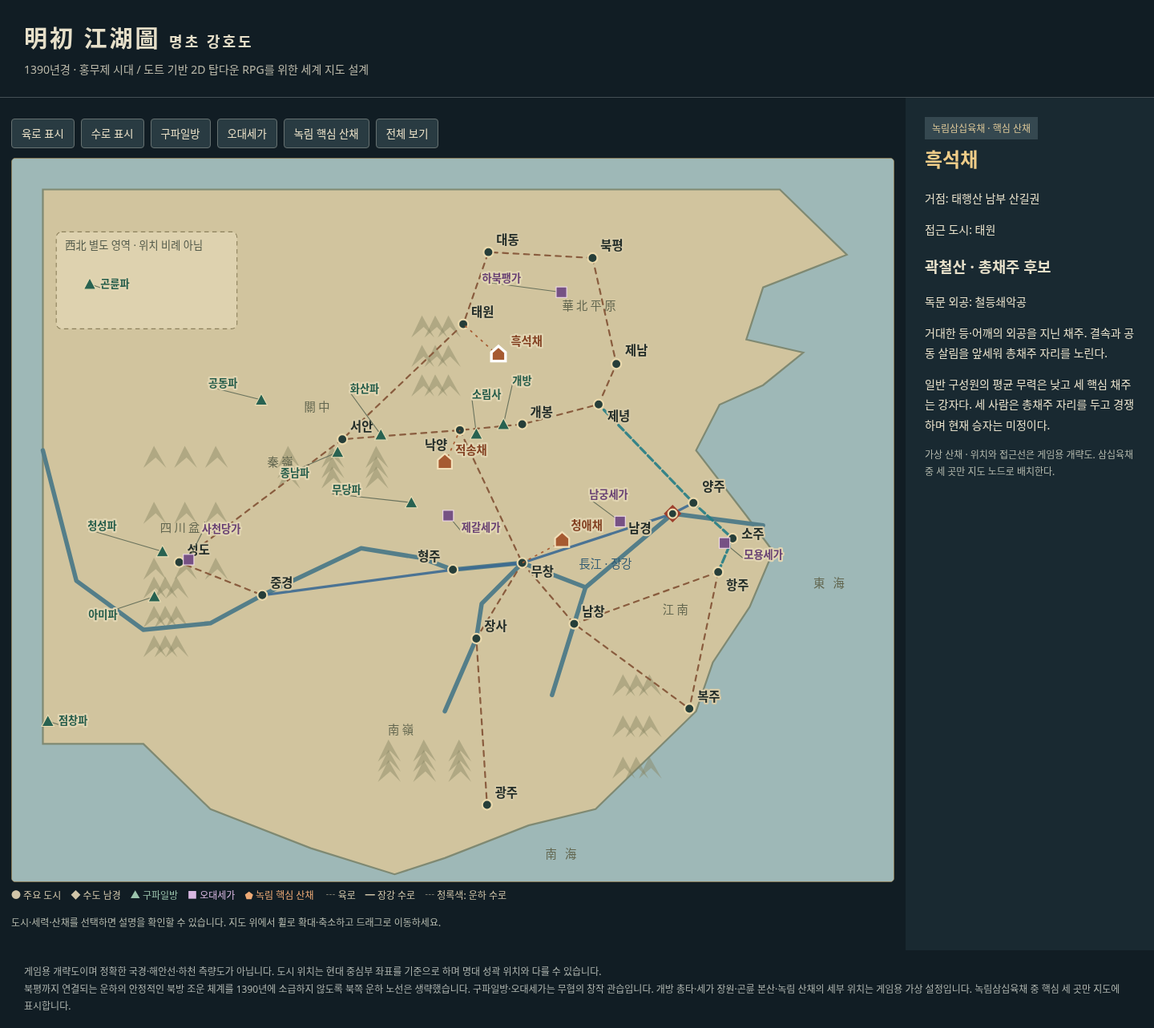
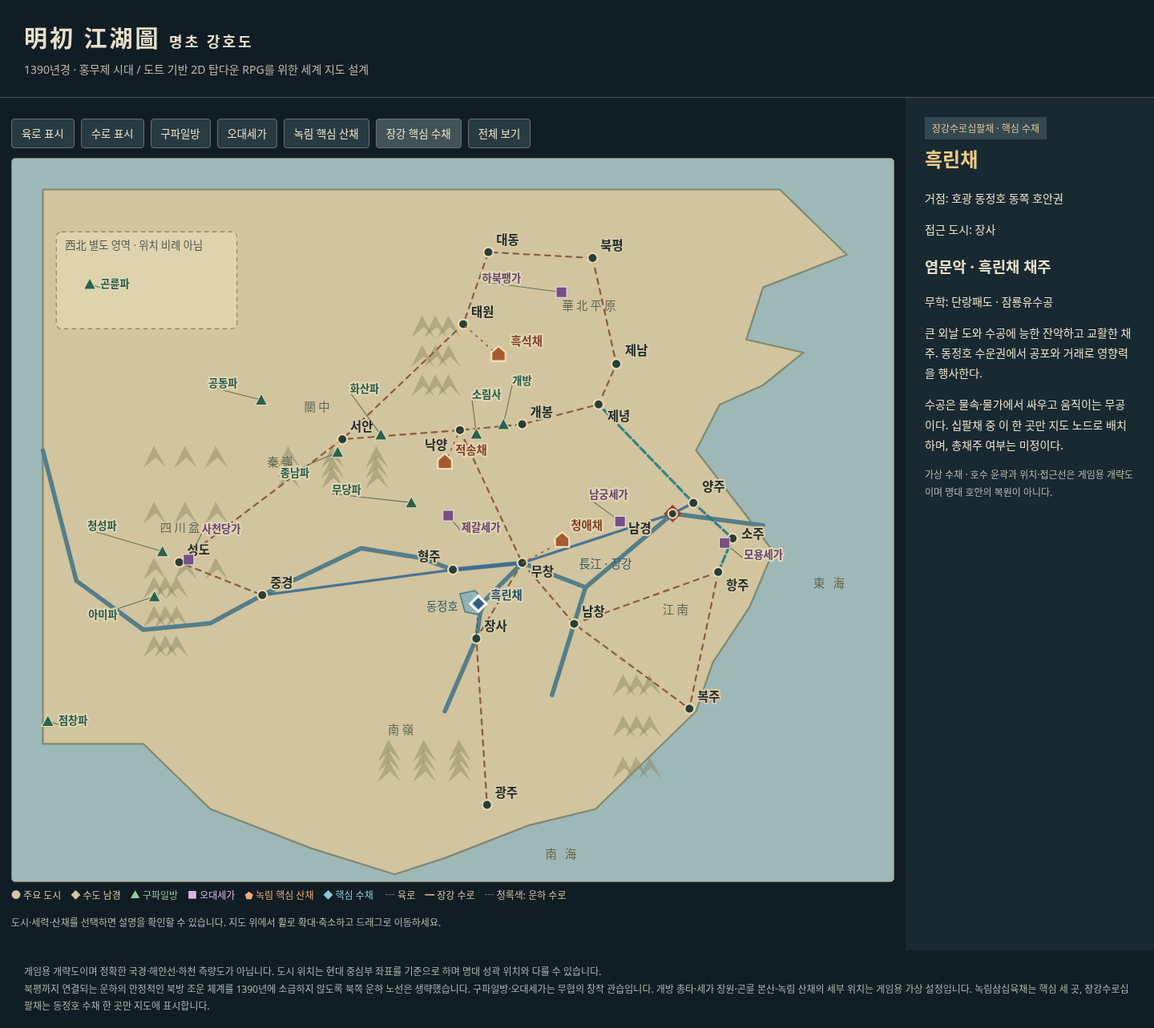
Add Dongting water camp and its cruel saber-wielding chief

diff --git a/world-map/index.html b/world-map/index.html
@@ -1,9 +1,9 @@
 <!doctype html><html lang="ko"><meta charset="utf-8"><meta name="viewport" content="width=device-width,initial-scale=1"><title>명초 강호도 · 세계 지도</title>
 <style>
-*{box-sizing:border-box}body{margin:0;background:#111d24;color:#e6dfc9;font-family:system-ui,'Noto Sans KR',sans-serif}header{padding:25px 30px 16px;border-bottom:1px solid #455055}h1{margin:0;font-size:29px;letter-spacing:3px}header p{color:#b9b7a8;margin:9px 0;font-size:14px}.app{display:grid;grid-template-columns:minmax(0,1fr) 310px;min-height:76vh}.canvas{position:relative;padding:14px}svg{width:100%;height:auto;background:#c7bb94;border:1px solid #877b59;border-radius:5px}aside{padding:24px;background:#192931}h2{color:#efcc88;margin-top:6px}.badge{display:inline-block;background:#354850;color:#dcc798;padding:5px 9px;font-size:12px}aside p{font-size:14px;line-height:1.8}button{background:#293b42;border:1px solid #667171;color:#e8dfc6;border-radius:4px;padding:8px 12px;cursor:pointer}button:hover{background:#425357}nav{display:flex;gap:8px;flex-wrap:wrap;padding:12px 0}footer{padding:16px 30px;color:#aeb4ae;font-size:12px;line-height:1.8}.city{cursor:pointer;outline:none}.city:hover circle,.city:focus circle{stroke:#fff;stroke-width:4}.city text{paint-order:stroke;stroke:#d5c9a6;stroke-width:4px;stroke-linejoin:round;fill:#222c28;font-weight:700;font-size:14px}.city.selected circle{fill:#c14f32;stroke:#fff;stroke-width:3}.camp{cursor:pointer;outline:none}.camp text{font-size:13px;font-weight:700;fill:#823f20;paint-order:stroke;stroke:#e1d5b2;stroke-width:4px;stroke-linejoin:round}.camp:hover .marker,.camp:focus .marker,.camp.selected .marker{stroke:#fff;stroke-width:3}.faction{cursor:pointer;outline:none}.faction text{font-size:12px;font-weight:700;paint-order:stroke;stroke:#e1d5b2;stroke-width:4px;stroke-linejoin:round}.faction:focus .marker,.faction:hover .marker,.faction.selected .marker{stroke:#fff;stroke-width:3}.faction line{stroke:#68715c;stroke-width:1;pointer-events:none}.mountain{fill:#8a8965;opacity:.47}.river{fill:none;stroke:#547e89;stroke-width:5;stroke-linecap:round;stroke-linejoin:round}.landlabel{font-size:13px;fill:#62664f;letter-spacing:3px}.waterlabel{font-size:13px;fill:#345c72} .route{fill:none;stroke-linejoin:round;stroke-linecap:round}.legend{font-size:12px;line-height:2;color:#d0c5a9}.small{font-size:12px;color:#b4b9ad}@media(max-width:800px){.app{grid-template-columns:1fr}aside{min-height:250px}header{padding:20px}h1{font-size:24px}}
-</style><header><h1>明初 江湖圖 <span style="font-size:18px">명초 강호도</span></h1><p>1390년경 · 홍무제 시대 / 도트 기반 2D 탑다운 RPG를 위한 세계 지도 설계</p></header><main class="app"><section class="canvas"><nav><button id="roads" aria-pressed="true">육로 표시</button><button id="water" aria-pressed="true">수로 표시</button><button id="sects" aria-pressed="true">구파일방</button><button id="clans" aria-pressed="true">오대세가</button><button id="camps" aria-pressed="true">녹림 핵심 산채</button><button id="reset">전체 보기</button></nav><svg id="map" viewBox="0 0 1000 820" role="img" aria-label="명나라 초기 주요 도시 20곳, 정파 세력 15곳과 녹림 핵심 산채 3곳의 지도"></svg><div class="legend">● 주요 도시　◆ 수도 남경　<span style="color:#9bc4ad">▲ 구파일방</span>　<span style="color:#d8b7e1">■ 오대세가</span>　<span style="color:#edaa76">⬟ 녹림 핵심 산채</span>　 ┄ 육로　━ 장강 수로　┄ 청록색: 운하 수로</div><p class="small">도시·세력·산채를 선택하면 설명을 확인할 수 있습니다. 지도 위에서 휠로 확대·축소하고 드래그로 이동하세요.</p></section><aside id="details" aria-live="polite"></aside></main><footer>게임용 개략도이며 정확한 국경·해안선·하천 측량도가 아닙니다. 도시 위치는 현대 중심부 좌표를 기준으로 하며 명대 성곽 위치와 다를 수 있습니다.<br>북평까지 연결되는 운하의 안정적인 북방 조운 체계를 1390년에 소급하지 않도록 북쪽 운하 노선은 생략했습니다. 구파일방·오대세가는 무협의 창작 관습입니다. 개방 총타·세가 장원·곤륜 본산·녹림 산채의 세부 위치는 게임용 가상 설정입니다. 녹림삼십육채 중 핵심 세 곳만 지도에 표시합니다.</footer>
+*{box-sizing:border-box}body{margin:0;background:#111d24;color:#e6dfc9;font-family:system-ui,'Noto Sans KR',sans-serif}header{padding:25px 30px 16px;border-bottom:1px solid #455055}h1{margin:0;font-size:29px;letter-spacing:3px}header p{color:#b9b7a8;margin:9px 0;font-size:14px}.app{display:grid;grid-template-columns:minmax(0,1fr) 310px;min-height:76vh}.canvas{position:relative;padding:14px}svg{width:100%;height:auto;background:#c7bb94;border:1px solid #877b59;border-radius:5px}aside{padding:24px;background:#192931}h2{color:#efcc88;margin-top:6px}.badge{display:inline-block;background:#354850;color:#dcc798;padding:5px 9px;font-size:12px}aside p{font-size:14px;line-height:1.8}button{background:#293b42;border:1px solid #667171;color:#e8dfc6;border-radius:4px;padding:8px 12px;cursor:pointer}button:hover{background:#425357}nav{display:flex;gap:8px;flex-wrap:wrap;padding:12px 0}footer{padding:16px 30px;color:#aeb4ae;font-size:12px;line-height:1.8}.city{cursor:pointer;outline:none}.city:hover circle,.city:focus circle{stroke:#fff;stroke-width:4}.city text{paint-order:stroke;stroke:#d5c9a6;stroke-width:4px;stroke-linejoin:round;fill:#222c28;font-weight:700;font-size:14px}.city.selected circle{fill:#c14f32;stroke:#fff;stroke-width:3}.watercamp{cursor:pointer;outline:none}.watercamp text{font-size:13px;font-weight:700;fill:#224e68;paint-order:stroke;stroke:#e1d5b2;stroke-width:4px;stroke-linejoin:round}.watercamp:hover .marker,.watercamp:focus .marker,.watercamp.selected .marker{stroke:#fff;stroke-width:3}.camp{cursor:pointer;outline:none}.camp text{font-size:13px;font-weight:700;fill:#823f20;paint-order:stroke;stroke:#e1d5b2;stroke-width:4px;stroke-linejoin:round}.camp:hover .marker,.camp:focus .marker,.camp.selected .marker{stroke:#fff;stroke-width:3}.faction{cursor:pointer;outline:none}.faction text{font-size:12px;font-weight:700;paint-order:stroke;stroke:#e1d5b2;stroke-width:4px;stroke-linejoin:round}.faction:focus .marker,.faction:hover .marker,.faction.selected .marker{stroke:#fff;stroke-width:3}.faction line{stroke:#68715c;stroke-width:1;pointer-events:none}.mountain{fill:#8a8965;opacity:.47}.river{fill:none;stroke:#547e89;stroke-width:5;stroke-linecap:round;stroke-linejoin:round}.landlabel{font-size:13px;fill:#62664f;letter-spacing:3px}.waterlabel{font-size:13px;fill:#345c72} .route{fill:none;stroke-linejoin:round;stroke-linecap:round}.legend{font-size:12px;line-height:2;color:#d0c5a9}.small{font-size:12px;color:#b4b9ad}@media(max-width:800px){.app{grid-template-columns:1fr}aside{min-height:250px}header{padding:20px}h1{font-size:24px}}
+</style><header><h1>明初 江湖圖 <span style="font-size:18px">명초 강호도</span></h1><p>1390년경 · 홍무제 시대 / 도트 기반 2D 탑다운 RPG를 위한 세계 지도 설계</p></header><main class="app"><section class="canvas"><nav><button id="roads" aria-pressed="true">육로 표시</button><button id="water" aria-pressed="true">수로 표시</button><button id="sects" aria-pressed="true">구파일방</button><button id="clans" aria-pressed="true">오대세가</button><button id="camps" aria-pressed="true">녹림 핵심 산채</button><button id="watercamps" aria-pressed="true">장강 핵심 수채</button><button id="reset">전체 보기</button></nav><svg id="map" viewBox="0 0 1000 820" role="img" aria-label="명나라 초기 주요 도시 20곳, 정파 세력 15곳과 녹림 핵심 산채 3곳과 동정호 수채 1곳의 지도"></svg><div class="legend">● 주요 도시　◆ 수도 남경　<span style="color:#9bc4ad">▲ 구파일방</span>　<span style="color:#d8b7e1">■ 오대세가</span>　<span style="color:#edaa76">⬟ 녹림 핵심 산채</span>　<span style="color:#8fc9d9">◆ 핵심 수채</span>　 ┄ 육로　━ 장강 수로　┄ 청록색: 운하 수로</div><p class="small">도시·세력·산채를 선택하면 설명을 확인할 수 있습니다. 지도 위에서 휠로 확대·축소하고 드래그로 이동하세요.</p></section><aside id="details" aria-live="polite"></aside></main><footer>게임용 개략도이며 정확한 국경·해안선·하천 측량도가 아닙니다. 도시 위치는 현대 중심부 좌표를 기준으로 하며 명대 성곽 위치와 다를 수 있습니다.<br>북평까지 연결되는 운하의 안정적인 북방 조운 체계를 1390년에 소급하지 않도록 북쪽 운하 노선은 생략했습니다. 구파일방·오대세가는 무협의 창작 관습입니다. 개방 총타·세가 장원·곤륜 본산·녹림 산채의 세부 위치는 게임용 가상 설정입니다. 녹림삼십육채는 핵심 세 곳, 장강수로십팔채는 동정호 수채 한 곳만 지도에 표시합니다.</footer>
 <script>
-const DATA={"period": "홍무 23년 전후 · 1390년경", "cities": [{"id": "nanjing", "name": "남경", "historic": "應天府", "lon": 118.8, "lat": 32.06, "region": "수도", "history": "명 조정의 수도. 궁성과 관청, 군수·수운의 중심.", "game": "황실·관료·상인·강호인이 교차하는 중앙 거점."}, {"id": "beiping", "name": "북평", "historic": "北平府", "lon": 116.41, "lat": 39.9, "region": "북방", "history": "1390년에는 북평. 연왕 주체의 번왕 거점이며, 1403년 북경으로 개칭되고 1421년 수도가 된다.", "game": "북방 군사 세력과 변경으로 통하는 관문."}, {"id": "xian", "name": "서안", "historic": "西安府", "lon": 108.94, "lat": 34.34, "region": "서북", "history": "관중의 중심이자 진왕의 번왕 거점.", "game": "관중 평야와 서북 지역을 잇는 무림 거점."}, {"id": "kaifeng", "name": "개봉", "historic": "開封府", "lon": 114.31, "lat": 34.8, "region": "중원", "history": "하남의 중심이며 주왕의 번왕 거점. 송대 수도였지만 명의 수도는 아니다.", "game": "하남의 문파와 상단이 모이는 중원 거점."}, {"id": "luoyang", "name": "낙양", "historic": "河南府", "lon": 112.45, "lat": 34.62, "region": "중원", "history": "하남부의 중심. 숭산·용문과 인접한 내륙 도시.", "game": "숭산 산길과 고도 탐험의 출입구."}, {"id": "jinan", "name": "제남", "historic": "濟南府", "lon": 117.12, "lat": 36.65, "region": "산동", "history": "산동 지역의 행정 중심. 대운하 본류에 직접 놓인 도시는 아니다.", "game": "태산과 산동 내륙을 연결하는 거점."}, {"id": "jining", "name": "제녕", "historic": "濟寧州", "lon": 116.59, "lat": 35.41, "region": "운하", "history": "명초 제녕주. 대운하 수운망의 중요한 거점.", "game": "운하 나루·창고·호송 의뢰의 무대."}, {"id": "yangzhou", "name": "양주", "historic": "揚州府", "lon": 119.42, "lat": 32.39, "region": "운하", "history": "장강 북안과 대운하를 연결하는 수운·염업 거점.", "game": "나루와 염상 세력이 얽히는 상업 도시."}, {"id": "suzhou", "name": "소주", "historic": "蘇州府", "lon": 120.59, "lat": 31.3, "region": "강남", "history": "강남의 농업·수공업·직물 생산 중심.", "game": "수로 마을과 공방, 부유한 상단의 도시."}, {"id": "hangzhou", "name": "항주", "historic": "杭州府", "lon": 120.16, "lat": 30.27, "region": "강남", "history": "절강의 중심이며 대운하 남단의 주요 도시.", "game": "서호와 강남 무림을 탐험하는 남쪽 거점."}, {"id": "wuchang", "name": "무창", "historic": "武昌府", "lon": 114.31, "lat": 30.55, "region": "장강", "history": "장강 중류의 주요 거점이자 초왕의 번왕 거점. 당시 현대 통합도시 명칭인 ‘무한’은 쓰지 않는다.", "game": "수로 세력과 내륙 문파가 교차하는 도시."}, {"id": "jingzhou", "name": "형주", "historic": "荊州府", "lon": 112.24, "lat": 30.34, "region": "장강", "history": "장강 중류의 군사·교통 거점.", "game": "강변 요새와 호송로의 거점."}, {"id": "chengdu", "name": "성도", "historic": "成都府", "lon": 104.07, "lat": 30.57, "region": "서남", "history": "사천 분지의 중심이며 촉왕의 번왕 거점.", "game": "분지 안의 도시와 험준한 산길을 탐험."}, {"id": "chongqing", "name": "중경", "historic": "重慶府", "lon": 106.55, "lat": 29.56, "region": "서남", "history": "장강·가릉강 합류부의 도시. 사천과 장강 중류 사이의 수로 거점.", "game": "협곡과 강변 취락으로 이어지는 출발점."}, {"id": "guangzhou", "name": "광주", "historic": "廣州府", "lon": 113.26, "lat": 23.13, "region": "남부", "history": "광동의 중심. 명초 해금 정책 아래 해상 교역을 자유무역으로 묘사하지 않도록 주의.", "game": "남방 상단과 해안 지역의 거점."}, {"id": "fuzhou", "name": "복주", "historic": "福州府", "lon": 119.3, "lat": 26.08, "region": "동남", "history": "복건의 행정 중심. 민강 하구권에 위치.", "game": "산지와 해안 사이의 동남부 도시."}, {"id": "nanchang", "name": "남창", "historic": "南昌府", "lon": 115.86, "lat": 28.68, "region": "강서", "history": "강서의 중심. 감강과 파양호를 통해 장강 수운권에 연결.", "game": "호수와 강을 따라 이동하는 내륙 거점."}, {"id": "changsha", "name": "장사", "historic": "長沙府", "lon": 112.94, "lat": 28.23, "region": "호남", "history": "상강 유역의 주요 도시. 동정호를 통해 장강과 연결.", "game": "남악 형산 방면의 탐험 거점."}, {"id": "datong", "name": "대동", "historic": "大同府", "lon": 113.3, "lat": 40.08, "region": "북방", "history": "북방 방어의 주요 군사 거점.", "game": "변경의 군사 긴장과 호송로를 표현."}, {"id": "taiyuan", "name": "태원", "historic": "太原府", "lon": 112.55, "lat": 37.87, "region": "북방", "history": "산서의 중심이자 진왕(晉王)의 번왕 거점. 서안의 진왕(秦王)과 구별.", "game": "산서 산길과 북방 내륙을 연결."}], "roads": [["beiping", "datong", "taiyuan", "xian"], ["beiping", "jinan", "jining", "kaifeng", "luoyang", "xian"], ["luoyang", "wuchang"], ["xian", "chengdu", "chongqing"], ["wuchang", "changsha", "guangzhou"], ["wuchang", "nanchang", "fuzhou"], ["hangzhou", "fuzhou"], ["nanchang", "hangzhou"]], "waterRoutes": [["chongqing", "jingzhou", "wuchang", "nanjing", "yangzhou"], ["hangzhou", "suzhou", "yangzhou", "jining"]], "note": "지형·하천·노선은 게임용 개략도. 행정 경계 및 정밀 역참 경로를 나타내지 않음.", "factions": [{"id": "shaolin", "name": "소림사", "historic": "少林寺", "kind": "구파일방", "lon": 112.94, "lat": 34.51, "base": "하남 · 숭산 소실산", "gateway": "낙양", "basis": "숭산 소실산의 소림사를 본산으로 삼는 무협 관습. 실제 사찰과 무협 조직 설정은 구별한다.", "labelOffset": [-5, -40], "locationType": "실제 산악·사찰 기반의 무협 본산"}, {"id": "wudang", "name": "무당파", "historic": "武當派", "kind": "구파일방", "lon": 111.0, "lat": 32.4, "base": "호광 · 무당산", "gateway": "무창 / 형주", "basis": "무당산을 본산으로 설정. 영락제 때의 대규모 조영을 1390년에 완성된 모습으로 소급하지 않는다.", "labelOffset": [-90, -10], "locationType": "실제 산악·사찰 기반의 무협 본산"}, {"id": "huashan", "name": "화산파", "historic": "華山派", "kind": "구파일방", "lon": 110.09, "lat": 34.48, "base": "섬서 · 화산", "gateway": "서안", "basis": "서악 화산을 본산으로 삼는 무협 관습.", "labelOffset": [-35, -48], "locationType": "실제 산악·사찰 기반의 무협 본산"}, {"id": "emei", "name": "아미파", "historic": "峨嵋派", "kind": "구파일방", "lon": 103.33, "lat": 29.52, "base": "사천 · 아미산", "gateway": "성도", "basis": "아미산을 본산으로 설정. 무협에서의 구성원·계율은 실제 불교 사찰의 역사와 별도다.", "labelOffset": [-75, 25], "locationType": "실제 산악·사찰 기반의 무협 본산"}, {"id": "qingcheng", "name": "청성파", "historic": "靑城派", "kind": "구파일방", "lon": 103.57, "lat": 30.9, "base": "사천 · 청성산", "gateway": "성도", "basis": "성도 서북쪽 청성산을 본산으로 설정.", "labelOffset": [-85, -25], "locationType": "실제 산악·사찰 기반의 무협 본산"}, {"id": "kongtong", "name": "공동파", "historic": "崆峒派", "kind": "구파일방", "lon": 106.52, "lat": 35.55, "base": "감숙 · 평량 공동산", "gateway": "서안", "basis": "평량 부근 공동산을 본산으로 삼는 무협 관습.", "labelOffset": [-60, -15], "locationType": "실제 산악·사찰 기반의 무협 본산"}, {"id": "kunlun", "name": "곤륜파", "historic": "崑崙派", "kind": "구파일방", "lon": 94.8, "lat": 36.1, "base": "서역 · 곤륜산맥 동부권", "gateway": "서안 → 서북 확장 지역", "basis": "곤륜산맥은 광범위하여 단일한 정설 본산 좌표가 없다. 동부권에 가상 본산을 두며 지도에서는 서북 별도 영역에 표시한다.", "labelOffset": [12, 4], "locationType": "게임용 가상 거점", "mapLon": 101.4, "mapLat": 39.1}, {"id": "zhongnan", "name": "종남파", "historic": "終南派", "kind": "구파일방", "lon": 108.8, "lat": 33.95, "base": "섬서 · 종남산", "gateway": "서안", "basis": "서안 남쪽 종남산을 본산으로 설정. 전진교와의 관계는 추후 창작 설정으로 결정한다.", "labelOffset": [-65, 28], "locationType": "실제 산악·사찰 기반의 무협 본산"}, {"id": "diancang", "name": "점창파", "historic": "點蒼派", "kind": "구파일방", "lon": 100.15, "lat": 25.7, "base": "운남 · 대리 점창산", "gateway": "성도 → 운남 확장 지역", "basis": "대리 서쪽 창산(점창산)을 본산으로 설정. 점창·종남 대신 해남 등을 넣는 작품도 있다.", "labelOffset": [12, 4], "locationType": "실제 산악·사찰 기반의 무협 본산"}, {"id": "beggars", "name": "개방", "historic": "丐幫", "kind": "구파일방", "lon": 113.75, "lat": 34.8, "base": "하남 · 개봉 외곽의 가상 총타", "gateway": "개봉", "basis": "개방은 전국적인 방회다. 총타 위치는 작품마다 달라 이번 게임에서는 개봉 외곽을 임시 총타로 지정한다.", "labelOffset": [10, -45], "locationType": "게임용 가상 거점"}, {"id": "namgung", "name": "남궁세가", "historic": "南宮世家", "kind": "오대세가", "lon": 117.23, "lat": 31.82, "base": "남직례 · 합비 일대", "gateway": "남경", "basis": "안휘권이라는 무협 관습을 채택하고 합비 부근에 가상 장원을 배치. 1390년에는 안휘성이 존재하지 않으므로 당시 지역은 남직례로 표기한다.", "labelOffset": [-35, -26], "locationType": "게임용 가상 거점"}, {"id": "murong", "name": "모용세가", "historic": "慕容世家", "kind": "오대세가", "lon": 120.35, "lat": 31.16, "base": "남직례 · 소주 태호권", "gateway": "소주", "basis": "소주·태호권을 채택하되 특정 작품의 장원·인물·서사는 사용하지 않는다.", "labelOffset": [22, 18], "locationType": "게임용 가상 거점"}, {"id": "tang", "name": "사천당가", "historic": "四川唐家", "kind": "오대세가", "lon": 104.35, "lat": 30.65, "base": "사천 · 성도 외곽", "gateway": "성도", "basis": "사천·성도권이라는 관습을 채택. 실제 장원의 위치가 아닌 게임용 가상 거점이다.", "labelOffset": [15, -30], "locationType": "게임용 가상 거점"}, {"id": "zhuge", "name": "제갈세가", "historic": "諸葛世家", "kind": "오대세가", "lon": 112.1, "lat": 32.0, "base": "호광 · 양양 일대", "gateway": "형주 / 무창", "basis": "호북·양양권을 채택. 제갈량 관련 지리적 연상을 바탕으로 한 무협 창작 관습이며 실제 명대 무림 가문의 사료가 아니다.", "labelOffset": [15, 18], "locationType": "게임용 가상 거점"}, {"id": "peng", "name": "하북팽가", "historic": "河北彭家", "kind": "오대세가", "lon": 115.48, "lat": 38.85, "base": "하북 · 보정 일대 (당시 북평 관할권)", "gateway": "북평", "basis": "사용자 지정에 따라 하북팽가를 채택. 하북 지역의 보정 일대에 가상 장원을 둔다. 현대 하북성의 행정구역을 1390년에 소급한 설정은 아니다.", "labelOffset": [-90, -12], "locationType": "게임용 가상 거점"}], "camps": [{"id": "heishi", "name": "흑석채", "lon": 113.6, "lat": 36.9, "region": "태행산 남부 산길권", "gateway": "태원", "gatewayId": "taiyuan", "leader": "곽철산 · 총채주 후보", "martialArt": "철등쇄악공", "description": "거대한 등·어깨의 외공을 지닌 채주. 결속과 공동 살림을 앞세워 총채주 자리를 노린다.", "labelOffset": [14, -12]}, {"id": "chisong", "name": "적송채", "lon": 112.0, "lat": 33.6, "region": "하남 복우산 산길권", "gateway": "낙양", "gatewayId": "luoyang", "leader": "연적하 · 총채주 후보", "martialArt": "적송철조공", "description": "손과 전완의 외공을 지닌 채주. 분배 규칙과 약속을 앞세워 총채주 자리를 노린다.", "labelOffset": [12, -10]}, {"id": "qingya", "name": "청애채", "lon": 115.5, "lat": 31.2, "region": "호광 대별산 산길권", "gateway": "무창", "gatewayId": "wuchang", "leader": "마운표 · 총채주 후보", "martialArt": "반석진각공", "description": "하체와 허리의 외공을 지닌 채주. 행동과 성과로 지지를 모아 총채주 자리를 노린다.", "labelOffset": [10, -14]}]};
+const DATA={"period": "홍무 23년 전후 · 1390년경", "cities": [{"id": "nanjing", "name": "남경", "historic": "應天府", "lon": 118.8, "lat": 32.06, "region": "수도", "history": "명 조정의 수도. 궁성과 관청, 군수·수운의 중심.", "game": "황실·관료·상인·강호인이 교차하는 중앙 거점."}, {"id": "beiping", "name": "북평", "historic": "北平府", "lon": 116.41, "lat": 39.9, "region": "북방", "history": "1390년에는 북평. 연왕 주체의 번왕 거점이며, 1403년 북경으로 개칭되고 1421년 수도가 된다.", "game": "북방 군사 세력과 변경으로 통하는 관문."}, {"id": "xian", "name": "서안", "historic": "西安府", "lon": 108.94, "lat": 34.34, "region": "서북", "history": "관중의 중심이자 진왕의 번왕 거점.", "game": "관중 평야와 서북 지역을 잇는 무림 거점."}, {"id": "kaifeng", "name": "개봉", "historic": "開封府", "lon": 114.31, "lat": 34.8, "region": "중원", "history": "하남의 중심이며 주왕의 번왕 거점. 송대 수도였지만 명의 수도는 아니다.", "game": "하남의 문파와 상단이 모이는 중원 거점."}, {"id": "luoyang", "name": "낙양", "historic": "河南府", "lon": 112.45, "lat": 34.62, "region": "중원", "history": "하남부의 중심. 숭산·용문과 인접한 내륙 도시.", "game": "숭산 산길과 고도 탐험의 출입구."}, {"id": "jinan", "name": "제남", "historic": "濟南府", "lon": 117.12, "lat": 36.65, "region": "산동", "history": "산동 지역의 행정 중심. 대운하 본류에 직접 놓인 도시는 아니다.", "game": "태산과 산동 내륙을 연결하는 거점."}, {"id": "jining", "name": "제녕", "historic": "濟寧州", "lon": 116.59, "lat": 35.41, "region": "운하", "history": "명초 제녕주. 대운하 수운망의 중요한 거점.", "game": "운하 나루·창고·호송 의뢰의 무대."}, {"id": "yangzhou", "name": "양주", "historic": "揚州府", "lon": 119.42, "lat": 32.39, "region": "운하", "history": "장강 북안과 대운하를 연결하는 수운·염업 거점.", "game": "나루와 염상 세력이 얽히는 상업 도시."}, {"id": "suzhou", "name": "소주", "historic": "蘇州府", "lon": 120.59, "lat": 31.3, "region": "강남", "history": "강남의 농업·수공업·직물 생산 중심.", "game": "수로 마을과 공방, 부유한 상단의 도시."}, {"id": "hangzhou", "name": "항주", "historic": "杭州府", "lon": 120.16, "lat": 30.27, "region": "강남", "history": "절강의 중심이며 대운하 남단의 주요 도시.", "game": "서호와 강남 무림을 탐험하는 남쪽 거점."}, {"id": "wuchang", "name": "무창", "historic": "武昌府", "lon": 114.31, "lat": 30.55, "region": "장강", "history": "장강 중류의 주요 거점이자 초왕의 번왕 거점. 당시 현대 통합도시 명칭인 ‘무한’은 쓰지 않는다.", "game": "수로 세력과 내륙 문파가 교차하는 도시."}, {"id": "jingzhou", "name": "형주", "historic": "荊州府", "lon": 112.24, "lat": 30.34, "region": "장강", "history": "장강 중류의 군사·교통 거점.", "game": "강변 요새와 호송로의 거점."}, {"id": "chengdu", "name": "성도", "historic": "成都府", "lon": 104.07, "lat": 30.57, "region": "서남", "history": "사천 분지의 중심이며 촉왕의 번왕 거점.", "game": "분지 안의 도시와 험준한 산길을 탐험."}, {"id": "chongqing", "name": "중경", "historic": "重慶府", "lon": 106.55, "lat": 29.56, "region": "서남", "history": "장강·가릉강 합류부의 도시. 사천과 장강 중류 사이의 수로 거점.", "game": "협곡과 강변 취락으로 이어지는 출발점."}, {"id": "guangzhou", "name": "광주", "historic": "廣州府", "lon": 113.26, "lat": 23.13, "region": "남부", "history": "광동의 중심. 명초 해금 정책 아래 해상 교역을 자유무역으로 묘사하지 않도록 주의.", "game": "남방 상단과 해안 지역의 거점."}, {"id": "fuzhou", "name": "복주", "historic": "福州府", "lon": 119.3, "lat": 26.08, "region": "동남", "history": "복건의 행정 중심. 민강 하구권에 위치.", "game": "산지와 해안 사이의 동남부 도시."}, {"id": "nanchang", "name": "남창", "historic": "南昌府", "lon": 115.86, "lat": 28.68, "region": "강서", "history": "강서의 중심. 감강과 파양호를 통해 장강 수운권에 연결.", "game": "호수와 강을 따라 이동하는 내륙 거점."}, {"id": "changsha", "name": "장사", "historic": "長沙府", "lon": 112.94, "lat": 28.23, "region": "호남", "history": "상강 유역의 주요 도시. 동정호를 통해 장강과 연결.", "game": "남악 형산 방면의 탐험 거점."}, {"id": "datong", "name": "대동", "historic": "大同府", "lon": 113.3, "lat": 40.08, "region": "북방", "history": "북방 방어의 주요 군사 거점.", "game": "변경의 군사 긴장과 호송로를 표현."}, {"id": "taiyuan", "name": "태원", "historic": "太原府", "lon": 112.55, "lat": 37.87, "region": "북방", "history": "산서의 중심이자 진왕(晉王)의 번왕 거점. 서안의 진왕(秦王)과 구별.", "game": "산서 산길과 북방 내륙을 연결."}], "roads": [["beiping", "datong", "taiyuan", "xian"], ["beiping", "jinan", "jining", "kaifeng", "luoyang", "xian"], ["luoyang", "wuchang"], ["xian", "chengdu", "chongqing"], ["wuchang", "changsha", "guangzhou"], ["wuchang", "nanchang", "fuzhou"], ["hangzhou", "fuzhou"], ["nanchang", "hangzhou"]], "waterRoutes": [["chongqing", "jingzhou", "wuchang", "nanjing", "yangzhou"], ["hangzhou", "suzhou", "yangzhou", "jining"]], "note": "지형·하천·노선은 게임용 개략도. 행정 경계 및 정밀 역참 경로를 나타내지 않음.", "factions": [{"id": "shaolin", "name": "소림사", "historic": "少林寺", "kind": "구파일방", "lon": 112.94, "lat": 34.51, "base": "하남 · 숭산 소실산", "gateway": "낙양", "basis": "숭산 소실산의 소림사를 본산으로 삼는 무협 관습. 실제 사찰과 무협 조직 설정은 구별한다.", "labelOffset": [-5, -40], "locationType": "실제 산악·사찰 기반의 무협 본산"}, {"id": "wudang", "name": "무당파", "historic": "武當派", "kind": "구파일방", "lon": 111.0, "lat": 32.4, "base": "호광 · 무당산", "gateway": "무창 / 형주", "basis": "무당산을 본산으로 설정. 영락제 때의 대규모 조영을 1390년에 완성된 모습으로 소급하지 않는다.", "labelOffset": [-90, -10], "locationType": "실제 산악·사찰 기반의 무협 본산"}, {"id": "huashan", "name": "화산파", "historic": "華山派", "kind": "구파일방", "lon": 110.09, "lat": 34.48, "base": "섬서 · 화산", "gateway": "서안", "basis": "서악 화산을 본산으로 삼는 무협 관습.", "labelOffset": [-35, -48], "locationType": "실제 산악·사찰 기반의 무협 본산"}, {"id": "emei", "name": "아미파", "historic": "峨嵋派", "kind": "구파일방", "lon": 103.33, "lat": 29.52, "base": "사천 · 아미산", "gateway": "성도", "basis": "아미산을 본산으로 설정. 무협에서의 구성원·계율은 실제 불교 사찰의 역사와 별도다.", "labelOffset": [-75, 25], "locationType": "실제 산악·사찰 기반의 무협 본산"}, {"id": "qingcheng", "name": "청성파", "historic": "靑城派", "kind": "구파일방", "lon": 103.57, "lat": 30.9, "base": "사천 · 청성산", "gateway": "성도", "basis": "성도 서북쪽 청성산을 본산으로 설정.", "labelOffset": [-85, -25], "locationType": "실제 산악·사찰 기반의 무협 본산"}, {"id": "kongtong", "name": "공동파", "historic": "崆峒派", "kind": "구파일방", "lon": 106.52, "lat": 35.55, "base": "감숙 · 평량 공동산", "gateway": "서안", "basis": "평량 부근 공동산을 본산으로 삼는 무협 관습.", "labelOffset": [-60, -15], "locationType": "실제 산악·사찰 기반의 무협 본산"}, {"id": "kunlun", "name": "곤륜파", "historic": "崑崙派", "kind": "구파일방", "lon": 94.8, "lat": 36.1, "base": "서역 · 곤륜산맥 동부권", "gateway": "서안 → 서북 확장 지역", "basis": "곤륜산맥은 광범위하여 단일한 정설 본산 좌표가 없다. 동부권에 가상 본산을 두며 지도에서는 서북 별도 영역에 표시한다.", "labelOffset": [12, 4], "locationType": "게임용 가상 거점", "mapLon": 101.4, "mapLat": 39.1}, {"id": "zhongnan", "name": "종남파", "historic": "終南派", "kind": "구파일방", "lon": 108.8, "lat": 33.95, "base": "섬서 · 종남산", "gateway": "서안", "basis": "서안 남쪽 종남산을 본산으로 설정. 전진교와의 관계는 추후 창작 설정으로 결정한다.", "labelOffset": [-65, 28], "locationType": "실제 산악·사찰 기반의 무협 본산"}, {"id": "diancang", "name": "점창파", "historic": "點蒼派", "kind": "구파일방", "lon": 100.15, "lat": 25.7, "base": "운남 · 대리 점창산", "gateway": "성도 → 운남 확장 지역", "basis": "대리 서쪽 창산(점창산)을 본산으로 설정. 점창·종남 대신 해남 등을 넣는 작품도 있다.", "labelOffset": [12, 4], "locationType": "실제 산악·사찰 기반의 무협 본산"}, {"id": "beggars", "name": "개방", "historic": "丐幫", "kind": "구파일방", "lon": 113.75, "lat": 34.8, "base": "하남 · 개봉 외곽의 가상 총타", "gateway": "개봉", "basis": "개방은 전국적인 방회다. 총타 위치는 작품마다 달라 이번 게임에서는 개봉 외곽을 임시 총타로 지정한다.", "labelOffset": [10, -45], "locationType": "게임용 가상 거점"}, {"id": "namgung", "name": "남궁세가", "historic": "南宮世家", "kind": "오대세가", "lon": 117.23, "lat": 31.82, "base": "남직례 · 합비 일대", "gateway": "남경", "basis": "안휘권이라는 무협 관습을 채택하고 합비 부근에 가상 장원을 배치. 1390년에는 안휘성이 존재하지 않으므로 당시 지역은 남직례로 표기한다.", "labelOffset": [-35, -26], "locationType": "게임용 가상 거점"}, {"id": "murong", "name": "모용세가", "historic": "慕容世家", "kind": "오대세가", "lon": 120.35, "lat": 31.16, "base": "남직례 · 소주 태호권", "gateway": "소주", "basis": "소주·태호권을 채택하되 특정 작품의 장원·인물·서사는 사용하지 않는다.", "labelOffset": [22, 18], "locationType": "게임용 가상 거점"}, {"id": "tang", "name": "사천당가", "historic": "四川唐家", "kind": "오대세가", "lon": 104.35, "lat": 30.65, "base": "사천 · 성도 외곽", "gateway": "성도", "basis": "사천·성도권이라는 관습을 채택. 실제 장원의 위치가 아닌 게임용 가상 거점이다.", "labelOffset": [15, -30], "locationType": "게임용 가상 거점"}, {"id": "zhuge", "name": "제갈세가", "historic": "諸葛世家", "kind": "오대세가", "lon": 112.1, "lat": 32.0, "base": "호광 · 양양 일대", "gateway": "형주 / 무창", "basis": "호북·양양권을 채택. 제갈량 관련 지리적 연상을 바탕으로 한 무협 창작 관습이며 실제 명대 무림 가문의 사료가 아니다.", "labelOffset": [15, 18], "locationType": "게임용 가상 거점"}, {"id": "peng", "name": "하북팽가", "historic": "河北彭家", "kind": "오대세가", "lon": 115.48, "lat": 38.85, "base": "하북 · 보정 일대 (당시 북평 관할권)", "gateway": "북평", "basis": "사용자 지정에 따라 하북팽가를 채택. 하북 지역의 보정 일대에 가상 장원을 둔다. 현대 하북성의 행정구역을 1390년에 소급한 설정은 아니다.", "labelOffset": [-90, -12], "locationType": "게임용 가상 거점"}], "camps": [{"id": "heishi", "name": "흑석채", "lon": 113.6, "lat": 36.9, "region": "태행산 남부 산길권", "gateway": "태원", "gatewayId": "taiyuan", "leader": "곽철산 · 총채주 후보", "martialArt": "철등쇄악공", "description": "거대한 등·어깨의 외공을 지닌 채주. 결속과 공동 살림을 앞세워 총채주 자리를 노린다.", "labelOffset": [14, -12]}, {"id": "chisong", "name": "적송채", "lon": 112.0, "lat": 33.6, "region": "하남 복우산 산길권", "gateway": "낙양", "gatewayId": "luoyang", "leader": "연적하 · 총채주 후보", "martialArt": "적송철조공", "description": "손과 전완의 외공을 지닌 채주. 분배 규칙과 약속을 앞세워 총채주 자리를 노린다.", "labelOffset": [12, -10]}, {"id": "qingya", "name": "청애채", "lon": 115.5, "lat": 31.2, "region": "호광 대별산 산길권", "gateway": "무창", "gatewayId": "wuchang", "leader": "마운표 · 총채주 후보", "martialArt": "반석진각공", "description": "하체와 허리의 외공을 지닌 채주. 행동과 성과로 지지를 모아 총채주 자리를 노린다.", "labelOffset": [10, -14]}], "waterCamps": [{"id": "heilin", "name": "흑린채", "lon": 113.0, "lat": 29.3, "region": "호광 동정호 동쪽 호안권", "gateway": "장사", "gatewayId": "changsha", "leader": "염문악 · 흑린채 채주", "martialArt": "단랑패도 · 잠룡유수공", "description": "큰 외날 도와 수공에 능한 잔악하고 교활한 채주. 동정호 수운권에서 공포와 거래로 영향력을 행사한다.", "labelOffset": [14, -5]}]};
 const svg=document.getElementById('map'),NS='http://www.w3.org/2000/svg';
 function el(tag,attrs,parent=svg){let n=document.createElementNS(NS,tag);for(const[k,v]of Object.entries(attrs))n.setAttribute(k,v);parent.append(n);return n}
 const world=el('g',{id:'world'});const xy=(lon,lat)=>[(lon-100)*38+35,(42-lat)*37+35];const pts=a=>a.map(p=>xy(...p).join(',')).join(' ');const byId=Object.fromEntries(DATA.cities.map(c=>[c.id,c]));
@@ -11,6 +11,9 @@ el('rect',{x:0,y:0,width:1000,height:820,fill:'#9eb8b7'},world);
 el('polygon',{points:pts([[100,42],[122,42],[124,40],[121.5,39],[121,37.4],[122.7,37],[121.5,36],[120.2,35.4],[119.5,34],[121,32],[121.8,30.9],[121.1,29.2],[120,27.5],[119.5,26],[118,24.5],[116.5,23],[114.5,22.5],[112,21.5],[110.5,21],[108,21.8],[105,23],[103,25],[100,25]]),fill:'#d1c49e',stroke:'#7f8972','stroke-width':2},world);
 for(const [lon,lat,w,h]of [[103,34,105,190],[107,34,150,35],[111,38,45,100],[117,27,45,140],[110,25,120,35],[103,30,38,100]]){let [x,y]=xy(lon,lat);for(let i=0;i<9;i++){let px=x+(i%3)*w/3,py=y+Math.floor(i/3)*h/3;el('path',{d:`M${px},${py+20} l12,-25 l14,25 l-12,-12 Z`,class:'mountain'},world)}}
 for(const [label,lon,lat]of [['關中',107.8,35.2],['四川盆地',103.5,31.5],['秦嶺',106.7,33.5],['華北平原',115.5,38.3],['江南',118.5,29],['南嶺',110.3,25.3],['東 海',123,29.8],['南 海',115,21.5]]){let[x,y]=xy(lon,lat);let t=el('text',{x,y,class:'landlabel'},world);t.textContent=label}
+// Schematic Dongting Lake footprint, not a reconstruction of the 1390 shoreline.
+el('polygon',{points:pts([[112.45,29.6],[112.9,29.7],[113.25,29.3],[113.05,28.95],[112.6,29.05]]),fill:'#8fb4b7',stroke:'#547e89','stroke-width':1.5},world);
+let dl=el('text',{x:xy(111.45,29.1)[0],y:xy(111.45,29.1)[1],class:'waterlabel'},world);dl.textContent='동정호';
 // Stylized courses; deliberately no precise Ming-era Yellow River course claim.
 for(const a of [[[100,34],[101,30],[103,28.5],[105,28.7],[106.55,29.56],[109.5,31],[111.3,30.7],[112.24,30.34],[114.31,30.55],[116.2,29.8],[118.8,32.06],[121.5,31.7]],[[114.31,30.55],[113.1,29.3],[112.94,28.23],[112,26]],[[116.2,29.8],[115.86,28.68],[115.2,26.5]]])el('polyline',{points:pts(a),class:'river'},world);
 let t=el('text',{x:xy(116,30.4)[0],y:xy(116,30.4)[1],class:'waterlabel'},world);t.textContent='長江 · 장강';
@@ -19,21 +22,26 @@ function route(ids,parent,style){el('polyline',{points:ids.map(id=>xy(byId[id].l
 DATA.roads.forEach(ids=>route(ids,roadGroup,{stroke:'#895c3e','stroke-width':2,'stroke-dasharray':'6 6'}));
 DATA.waterRoutes.forEach((ids,i)=>route(ids,waterGroup,{stroke:i?'#247d85':'#3c6a92','stroke-width':3,'stroke-dasharray':i?'8 4':'none',opacity:.9}));
 const shifts={yangzhou:[10,-13],nanjing:[-50,22],suzhou:[10,0],hangzhou:[9,20],luoyang:[-40,22],kaifeng:[9,-9],wuchang:[10,15],jingzhou:[-40,-10],jinan:[10,-10],jining:[10,18]};
-function select(c){document.querySelectorAll('.city,.faction,.camp').forEach(n=>n.classList.toggle('selected',n.dataset.id===c.id));const panel=document.getElementById('details');panel.replaceChildren();for(const[tag,text,cls]of [['span',c.region,'badge'],['h2',c.name+' · '+c.historic],['p',c.history],['h3','게임 활용안'],['p',c.game],['p','도시 사이 이동은 개략적인 연결입니다. 세부 맵과 실제 이동 시간은 추후 설계합니다.','small']]){const n=document.createElement(tag);n.textContent=text;if(cls)n.className=cls;panel.append(n)}}
+function select(c){document.querySelectorAll('.city,.faction,.camp,.watercamp').forEach(n=>n.classList.toggle('selected',n.dataset.id===c.id));const panel=document.getElementById('details');panel.replaceChildren();for(const[tag,text,cls]of [['span',c.region,'badge'],['h2',c.name+' · '+c.historic],['p',c.history],['h3','게임 활용안'],['p',c.game],['p','도시 사이 이동은 개략적인 연결입니다. 세부 맵과 실제 이동 시간은 추후 설계합니다.','small']]){const n=document.createElement(tag);n.textContent=text;if(cls)n.className=cls;panel.append(n)}}
 for(const c of DATA.cities){const[x,y]=xy(c.lon,c.lat),g=el('g',{class:'city',tabindex:0,role:'button','aria-label':c.name+' '+c.historic,'data-id':c.id},world);el('rect',{x:x-12,y:y-18,width:68,height:44,fill:'transparent'},g);if(c.id==='nanjing')el('path',{d:`M${x} ${y-10} l10 10 l-10 10 l-10 -10 Z`,fill:'#9d3f2c'},g);el('circle',{cx:x,cy:y,r:c.id==='nanjing'?5:5.5,fill:'#263e39',stroke:'#ead9ad','stroke-width':2},g);let[dx,dy]=shifts[c.id]||[9,-9];let label=el('text',{x:x+dx,y:y+dy},g);label.textContent=c.name;g.addEventListener('click',()=>select(c));g.addEventListener('keydown',e=>{if(e.key==='Enter'||e.key===' '){e.preventDefault();select(c)}})}
 
 const sectGroup=el('g',{'data-layer':'sects'},world),clanGroup=el('g',{'data-layer':'clans'},world);
 // Kunlun is an explicitly labeled inset, not a false geographic placement.
 const [ix,iy]=xy(100.4,40.7);el('rect',{x:ix,y:iy,width:205,height:110,rx:6,fill:'#ded2af',stroke:'#8c805c','stroke-dasharray':'5 4'},sectGroup);
 let it=el('text',{x:ix+10,y:iy+20,'font-size':12,fill:'#545b4b'},sectGroup);it.textContent='西北 별도 영역 · 위치 비례 아님';
-function selectFaction(f){document.querySelectorAll('.city,.faction,.camp').forEach(n=>n.classList.toggle('selected',n.dataset.id===f.id));const panel=document.getElementById('details');panel.replaceChildren();for(const[tag,text,cls]of [['span',f.kind,'badge'],['h2',f.name+' · '+f.historic],['p','거점: '+f.base],['p','연결 도시: '+f.gateway],['h3','설정 근거와 범위'],['p',f.basis],['p',f.locationType+' · 무협 창작 설정이며 명대 실존 무림 조직의 분포도가 아닙니다.','small']]){const n=document.createElement(tag);n.textContent=text;if(cls)n.className=cls;panel.append(n)}}
+function selectFaction(f){document.querySelectorAll('.city,.faction,.camp,.watercamp').forEach(n=>n.classList.toggle('selected',n.dataset.id===f.id));const panel=document.getElementById('details');panel.replaceChildren();for(const[tag,text,cls]of [['span',f.kind,'badge'],['h2',f.name+' · '+f.historic],['p','거점: '+f.base],['p','연결 도시: '+f.gateway],['h3','설정 근거와 범위'],['p',f.basis],['p',f.locationType+' · 무협 창작 설정이며 명대 실존 무림 조직의 분포도가 아닙니다.','small']]){const n=document.createElement(tag);n.textContent=text;if(cls)n.className=cls;panel.append(n)}}
 for(const f of DATA.factions){let[x,y]=xy(f.mapLon??f.lon,f.mapLat??f.lat),[dx,dy]=f.labelOffset;const g=el('g',{class:'faction',tabindex:0,role:'button','aria-label':f.name+' '+f.base,'data-id':f.id},f.kind==='구파일방'?sectGroup:clanGroup);el('line',{x1:x,y1:y,x2:x+dx,y2:y+dy},g);el('rect',{x:x-9,y:y-9,width:18,height:18,fill:'transparent'},g);if(f.kind==='구파일방')el('path',{d:`M${x},${y-7} l7,13 h-14 Z`,class:'marker',fill:'#286251',stroke:'#e9ddb5'},g);else el('rect',{x:x-6,y:y-6,width:12,height:12,class:'marker',fill:'#765184',stroke:'#f0dce9'},g);const tx=x+dx,ty=y+dy;el('rect',{x:tx-4,y:ty-13,width:f.name.length*13+9,height:20,fill:'transparent'},g);const t=el('text',{x:tx,y:ty,fill:f.kind==='구파일방'?'#235b49':'#684073'},g);t.textContent=f.name;g.addEventListener('click',()=>selectFaction(f));g.addEventListener('keydown',e=>{if(e.key==='Enter'||e.key===' '){e.preventDefault();selectFaction(f)}})}
 
 
 const campGroup=el('g',{'data-layer':'camps'},world);
-function selectCamp(c){document.querySelectorAll('.city,.faction,.camp').forEach(n=>n.classList.toggle('selected',n.dataset.id===c.id));const panel=document.getElementById('details');panel.replaceChildren();for(const[tag,txt,cls]of [['span','녹림삼십육채 · 핵심 산채','badge'],['h2',c.name],['p','거점: '+c.region],['p','접근 도시: '+c.gateway],['h3',c.leader],['p','독문 외공: '+c.martialArt],['p',c.description],['p','일반 구성원의 평균 무력은 낮고 세 핵심 채주는 강자다. 세 사람은 총채주 자리를 두고 경쟁하며 현재 승자는 미정이다.'],['p','가상 산채 · 위치와 접근선은 게임용 개략도. 삼십육채 중 세 곳만 지도 노드로 배치한다.','small']]){const n=document.createElement(tag);n.textContent=txt;if(cls)n.className=cls;panel.append(n)}}
+function selectCamp(c){document.querySelectorAll('.city,.faction,.camp,.watercamp').forEach(n=>n.classList.toggle('selected',n.dataset.id===c.id));const panel=document.getElementById('details');panel.replaceChildren();for(const[tag,txt,cls]of [['span','녹림삼십육채 · 핵심 산채','badge'],['h2',c.name],['p','거점: '+c.region],['p','접근 도시: '+c.gateway],['h3',c.leader],['p','독문 외공: '+c.martialArt],['p',c.description],['p','일반 구성원의 평균 무력은 낮고 세 핵심 채주는 강자다. 세 사람은 총채주 자리를 두고 경쟁하며 현재 승자는 미정이다.'],['p','가상 산채 · 위치와 접근선은 게임용 개략도. 삼십육채 중 세 곳만 지도 노드로 배치한다.','small']]){const n=document.createElement(tag);n.textContent=txt;if(cls)n.className=cls;panel.append(n)}}
 for(const c of DATA.camps||[]){const[x,y]=xy(c.lon,c.lat),a=byId[c.gatewayId],[gx,gy]=xy(a.lon,a.lat);el('line',{x1:x,y1:y,x2:gx,y2:gy,stroke:'#a65a31','stroke-width':1.5,'stroke-dasharray':'3 5','pointer-events':'none'},campGroup);const g=el('g',{class:'camp',tabindex:0,role:'button','aria-label':c.name+' '+c.leader,'data-id':c.id},campGroup);const[dx,dy]=c.labelOffset;el('rect',{x:x-11,y:y-27,width:80,height:42,fill:'transparent'},g);el('path',{d:`M${x-8},${y+6} v-10 l8,-7 l8,7 v10 Z`,class:'marker',fill:'#a65a31',stroke:'#f2dfb9','stroke-width':2},g);const t=el('text',{x:x+dx,y:y+dy},g);t.textContent=c.name;g.addEventListener('click',()=>selectCamp(c));g.addEventListener('keydown',e=>{if(e.key==='Enter'||e.key===' '){e.preventDefault();selectCamp(c)}})}
 
-for(const [id,group]of [['roads',roadGroup],['water',waterGroup],['sects',sectGroup],['clans',clanGroup],['camps',campGroup]])document.getElementById(id).onclick=e=>{let show=group.style.display==='none';group.style.display=show?'':'none';e.target.setAttribute('aria-pressed',show)};
-let box=[0,0,1000,820],drag=null;function render(){svg.setAttribute('viewBox',box.join(' '))}document.getElementById('reset').onclick=()=>{box=[0,0,1000,820];render()};svg.addEventListener('wheel',e=>{e.preventDefault();let factor=e.deltaY>0?1.12:.89;let width=Math.max(350,Math.min(1400,box[2]*factor));let height=width*.82;box=[box[0]+(box[2]-width)/2,box[1]+(box[3]-height)/2,width,height];render()},{passive:false});svg.style.touchAction='none';svg.addEventListener('pointerdown',e=>{if(e.target.closest('.city,.faction,.camp'))return;drag=[e.clientX,e.clientY,...box];svg.setPointerCapture(e.pointerId)});svg.addEventListener('pointermove',e=>{if(!drag)return;let r=svg.getBoundingClientRect();box=[drag[2]-(e.clientX-drag[0])*drag[4]/r.width,drag[3]-(e.clientY-drag[1])*drag[5]/r.height,drag[4],drag[5]];render()});svg.addEventListener('pointerup',()=>drag=null);svg.addEventListener('pointercancel',()=>drag=null);select(byId.nanjing);
+
+const waterCampGroup=el('g',{'data-layer':'watercamps'},world);
+function selectWaterCamp(c){document.querySelectorAll('.city,.faction,.camp,.watercamp').forEach(n=>n.classList.toggle('selected',n.dataset.id===c.id));const panel=document.getElementById('details');panel.replaceChildren();for(const[tag,txt,cls]of [['span','장강수로십팔채 · 핵심 수채','badge'],['h2',c.name],['p','거점: '+c.region],['p','접근 도시: '+c.gateway],['h3',c.leader],['p','무학: '+c.martialArt],['p',c.description],['p','수공은 물속·물가에서 싸우고 움직이는 무공이다. 십팔채 중 이 한 곳만 지도 노드로 배치하며, 총채주 여부는 미정이다.'],['p','가상 수채 · 호수 윤곽과 위치·접근선은 게임용 개략도이며 명대 호안의 복원이 아니다.','small']]){const n=document.createElement(tag);n.textContent=txt;if(cls)n.className=cls;panel.append(n)}}
+for(const c of DATA.waterCamps||[]){const[x,y]=xy(c.lon,c.lat),a=byId[c.gatewayId],[gx,gy]=xy(a.lon,a.lat);el('line',{x1:x,y1:y,x2:gx,y2:gy,stroke:'#315e80','stroke-width':1.5,'stroke-dasharray':'3 5','pointer-events':'none'},waterCampGroup);const g=el('g',{class:'watercamp',tabindex:0,role:'button','aria-label':c.name+' '+c.leader,'data-id':c.id},waterCampGroup);el('rect',{x:x-12,y:y-24,width:86,height:42,fill:'transparent'},g);el('path',{d:`M${x},${y-9} l9,9 l-9,9 l-9,-9 Z`,class:'marker',fill:'#315e80',stroke:'#f2dfb9','stroke-width':2},g);const[dx,dy]=c.labelOffset,t=el('text',{x:x+dx,y:y+dy},g);t.textContent=c.name;g.addEventListener('click',()=>selectWaterCamp(c));g.addEventListener('keydown',e=>{if(e.key==='Enter'||e.key===' '){e.preventDefault();selectWaterCamp(c)}})}
+
+for(const [id,group]of [['roads',roadGroup],['water',waterGroup],['sects',sectGroup],['clans',clanGroup],['camps',campGroup],['watercamps',waterCampGroup]])document.getElementById(id).onclick=e=>{let show=group.style.display==='none';group.style.display=show?'':'none';e.target.setAttribute('aria-pressed',show)};
+let box=[0,0,1000,820],drag=null;function render(){svg.setAttribute('viewBox',box.join(' '))}document.getElementById('reset').onclick=()=>{box=[0,0,1000,820];render()};svg.addEventListener('wheel',e=>{e.preventDefault();let factor=e.deltaY>0?1.12:.89;let width=Math.max(350,Math.min(1400,box[2]*factor));let height=width*.82;box=[box[0]+(box[2]-width)/2,box[1]+(box[3]-height)/2,width,height];render()},{passive:false});svg.style.touchAction='none';svg.addEventListener('pointerdown',e=>{if(e.target.closest('.city,.faction,.camp,.watercamp'))return;drag=[e.clientX,e.clientY,...box];svg.setPointerCapture(e.pointerId)});svg.addEventListener('pointermove',e=>{if(!drag)return;let r=svg.getBoundingClientRect();box=[drag[2]-(e.clientX-drag[0])*drag[4]/r.width,drag[3]-(e.clientY-drag[1])*drag[5]/r.height,drag[4],drag[5]];render()});svg.addEventListener('pointerup',()=>drag=null);svg.addEventListener('pointercancel',()=>drag=null);select(byId.nanjing);
 </script></html>

diff --git a/docs/characters/waterbandits.md b/docs/characters/waterbandits.md
@@ -1,0 +1,24 @@
+# 흑린채 채주 — 창작 초안
+
+[장강수로십팔채 설정](../factions/waterbandits.md)을 따른다. 큰 도·수공·잔악함과 교활함은 사용자 지정이며 아래 이름·나이·별호·개인사·무공의 세부는 제안이다. 전투 스탯은 없다.
+
+## 염문악 — 흑린채 채주, 별호 흑수악교
+
+- 남성, 47세. 동정호 인근 흑린채를 이끄는 채주. 십팔채 총채주 여부는 미정이다.
+- 외형: 길고 비대칭인 얼굴, 한쪽이 더 튀어나온 광대와 뾰족한 턱, 꺾인 긴 코, 작은 깊은 눈과 낮게 깔린 눈썹. 왼쪽 입꼬리 옆의 오래된 흉터와 얇은 콧수염·짧고 성긴 턱수염. 햇볕과 물바람에 거칠어진 피부. 젖은 듯 뒤로 빗어 단단히 묶은 검은 머리.
+- 체격: 넓은 등·어깨와 길고 힘줄 선 팔, 단단한 허리. 팽가처럼 압도적인 거구보다 집요하게 움직이는 건장한 중년 체격.
+- 복식·무기: 물에 거추장스럽지 않은 짙은 청회색 짧은 겉옷과 탁한 적갈색 허리띠, 마모된 손목 보호대. 넓고 무거운 **외날 대도**를 사용한다. 곧은 양날 검으로 바꾸지 않는다.
+- 무학: 단랑패도·잠룡유수공. 물속과 물가의 환경을 이용하는 데 능하다.
+- 성격: 잔악하고 교활하다. 상대의 두려움과 필요를 파악해 선택지를 좁힌 뒤 양보하는 척 거래를 강요한다. 웃는 얼굴로 약속하고 자신에게 유리한 해석만 남긴다.
+- 잔악함의 표현: 생계 때문에 거절할 수 없는 사람에게도 통행세를 강요하고, 부하를 보호하기보다 공포로 복종시키려 한다. 악행을 모두 생존 탓으로 정당화하지 않는다. 구체적인 잔혹 장면은 현재 만들지 않는다.
+- 교활함의 표현: 힘으로 밀어붙일 수 있어도 이길 조건을 먼저 확보하려 한다. 약속과 소문을 이용해 상대끼리 의심하게 만들며 불리하면 후퇴를 수치로 여기지 않는다. 모든 일을 내다보는 전지적 지략가는 아니다.
+- 목표: 동정호 수운권에서 누구도 자신을 거치지 않고 이익을 얻지 못하게 만드는 것. 십팔채 전체를 차지할 구체적인 계획은 미정이다.
+- 결점: 공포로 묶인 충성을 과신한다. 누군가 손해를 감수하고 다른 사람을 돕는 선택을 쉽게 믿지 못한다.
+- 관계: 정파 인물·녹림 채주·수채 내부 인물과의 구체적인 혈연·원한·밀약은 아직 배정하지 않는다.
+- 대사: “물길은 열려 있소. 내가 닫겠다는 말은 안 했잖소. 그저 값이 달라졌을 뿐이지.”
+
+## 초상화 지침
+
+기존의 개성 있는 도트 기반 대화용 화풍·투명 배경. 같은 웃는 얼굴이어도 녹림 마운표의 호방함이나 개방 구만복의 편안함과 다르게 좁은 눈과 비대칭 냉소로 위협을 드러낸다. 넓은 외날 도를 분명히 보여 주고, 물·배·호수 배경은 넣지 않는다. 피·고문 흔적·해골·마법 기운으로 성격을 대신하지 않는다.
+
+- [염문악 초상화](../../assets/portraits/waterbandits/yeommunak.png)

diff --git a/docs/factions/waterbandits.md b/docs/factions/waterbandits.md
@@ -1,0 +1,29 @@
+# 장강수로십팔채
+
+## 사용자 확정 설정
+
+- 세계관상 장강수로십팔채가 존재한다.
+- 실제 게임 지도에는 **동정호 인근 수채 한 곳만 배치**한다. 나머지 열일곱 채는 배경이며 개별 탐험 노드나 필수 공략 대상이 아니다.
+- 해당 채주는 **큰 도를 사용하고 수공에 능하며, 잔악하고 교활한 인물**이다.
+- 전투 스탯은 부여하지 않는다.
+
+## 핵심 수채 — 흑린채(黑鱗寨), 창작 제안
+
+호광 동정호 동쪽 호안의 가상 수채다. 지도 기준점은 113.00E 29.30N으로 두고 장사를 접근 도시로 연결한다. 실제 명대 성채·나루·해안선을 고증한 좌표가 아니다. 동정호의 수위와 하안은 시대·계절에 따라 달라지며 지도에는 개략적인 호수만 표현한다.
+
+장강 수운권과 연결된 동정호의 배·나루·물자 흐름에 영향력을 행사한다. 채주는 강압적인 통행세와 협박, 자신이 만든 공포로 수채를 유지하는 방향으로 제안한다. 인근 주민과 수채 구성원 전체가 같은 잔혹성을 지녔다고 일반화하지 않는다. 장강 전체를 수채 한 곳이 지배한다고 설정하지 않는다.
+
+흑린채 채주가 십팔채 전체의 총채주인지는 미정이다. 다른 수채의 지도자·연합 구조·마교와의 관계·녹림과의 거래도 이번에 확정하지 않는다.
+
+## 수공과 무학 — 창작 초안
+
+여기서 수공은 **물속·물가에서 싸우고 움직이는 무공**으로 해석한다. 제방을 무너뜨리거나 홍수를 일으키는 수공(水攻)을 뜻하지 않는다. 사용자가 별도로 지정하면 조정한다.
+
+- **단랑패도:** 넓고 무거운 외날 도를 짧고 위협적인 궤적으로 운용하는 독문 도법. 배 위와 물가에서의 간격 변화와 제압을 중시한다. 실제로 강을 가르거나 원거리 충격파를 발사하는 능력은 미정이다.
+- **잠룡유수공:** 수중의 움직임과 방향 감각을 다루는 독문 수공. 물가와 육지의 차이를 이용해 싸우는 방향으로 제안한다. 무제한 잠수·수중 호흡·물 조종·확정 은신을 전제하지 않는다.
+
+두 무공의 이름·원리·전수 범위는 제안이다. 큰 도와 수공을 병용하되 무거운 도를 물속에서도 아무 제약 없이 휘두른다고 정하지 않는다. 지형별 동작과 전투 효과·자원 소모·피해량은 추후 설계한다.
+
+## 인물
+
+[염문악 — 흑린채 채주](../characters/waterbandits.md).

diff --git a/README.md b/README.md
@@ -2,9 +2,9 @@
 
 `world-map/index.html`을 브라우저에서 열면 된다. 외부 라이브러리·설치·서버 없이 작동한다.
 
-- 1390년경 주요 도시 20곳과 구파일방·오대세가 거점 15곳, 녹림 핵심 산채 3곳
+- 1390년경 주요 도시 20곳과 구파일방·오대세가 거점 15곳, 녹림 핵심 산채 3곳과 장강 핵심 수채 1곳
 - 도시·문파·세가 선택 시 위치와 설정 근거 표시
-- 육로·수로·구파일방·오대세가·녹림 산채 표시 전환, 확대·축소, 드래그 이동
+- 육로·수로·구파일방·오대세가·녹림 산채·장강 수채 표시 전환, 확대·축소, 드래그 이동
 - 데이터: `world-map/world-data.json` (수정 후 `python world-map/sync-data.py` 실행)
 - 무협 세력 선정 및 개별 컨셉 색인: `docs/factions.md`
 - 남궁세가 확정 컨셉: `docs/factions/namgung.md`
@@ -167,3 +167,11 @@ GitHub에서 아래 링크를 누르면 각 PNG를 확인하고 다운로드할 
 | 흑석채 · 곽철산 | 적송채 · 연적하 | 청애채 · 마운표 |
 |---|---|---|
 | ![곽철산](assets/portraits/greenwood/gwatcheolsan.png) | ![연적하](assets/portraits/greenwood/yeonjeokha.png) | ![마운표](assets/portraits/greenwood/maunpyo.png) |
+
+## 장강수로십팔채
+
+[수로채 설정과 무학](docs/factions/waterbandits.md) · [흑린채 채주 염문악](docs/characters/waterbandits.md)
+
+세계관에는 18채가 있지만 지도에는 동정호 인근 흑린채 한 곳만 배치했다. ‘장강 핵심 수채’ 버튼과 청색 마름모로 구별한다.
+
+![염문악](assets/portraits/waterbandits/yeommunak.png)

diff --git a/docs/world-setting.md b/docs/world-setting.md
@@ -43,3 +43,7 @@
 ## 녹림 확장
 
 [녹림삼십육채](factions/greenwood.md)는 세계관상 36채지만 전체 지도에는 흑석채·적송채·청애채 세 노드만 추가했다. 기존 도시·정파 거점은 유지한다. 각 위치는 실제 지형권을 바탕으로 한 가상 산채이며 별도 탐험 타일맵은 아직 없다. 세 채주의 인물·독문 외공·경쟁 구도는 별도 문서에서 관리한다.
+
+## 장강 수로채 확장
+
+장강수로십팔채는 세계관상 유지하고 지도에는 동정호 인근 [흑린채](factions/waterbandits.md) 한 곳만 추가했다. 동정호 윤곽은 게임용 개략도이며 1390년의 호안·수위 복원이 아니다. 장사 접근선도 가상 이동 연결이다. 기존 도시·정파·녹림 거점은 유지한다.

diff --git a/docs/factions.md b/docs/factions.md
@@ -80,3 +80,5 @@
 ## 사파
 
 - [녹림삼십육채](factions/greenwood.md): 지도에는 핵심 산채 3곳만 배치. 외공 강자 세 채주가 총채주 자리를 두고 경쟁한다. [곽철산·연적하·마운표](characters/greenwood.md).
+
+- [장강수로십팔채](factions/waterbandits.md): 동정호 인근 흑린채 한 곳만 지도에 배치. [대도와 수공을 쓰는 채주 염문악](characters/waterbandits.md).
